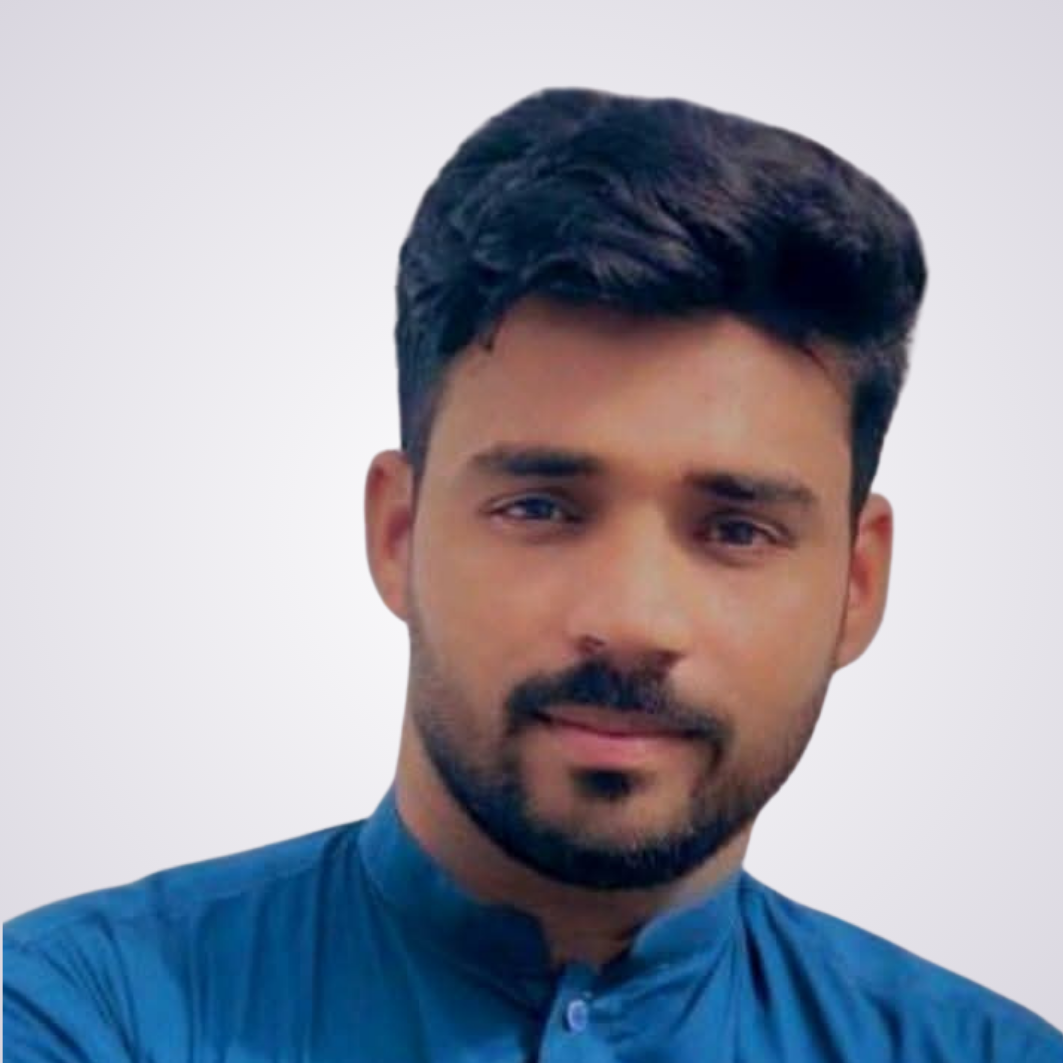
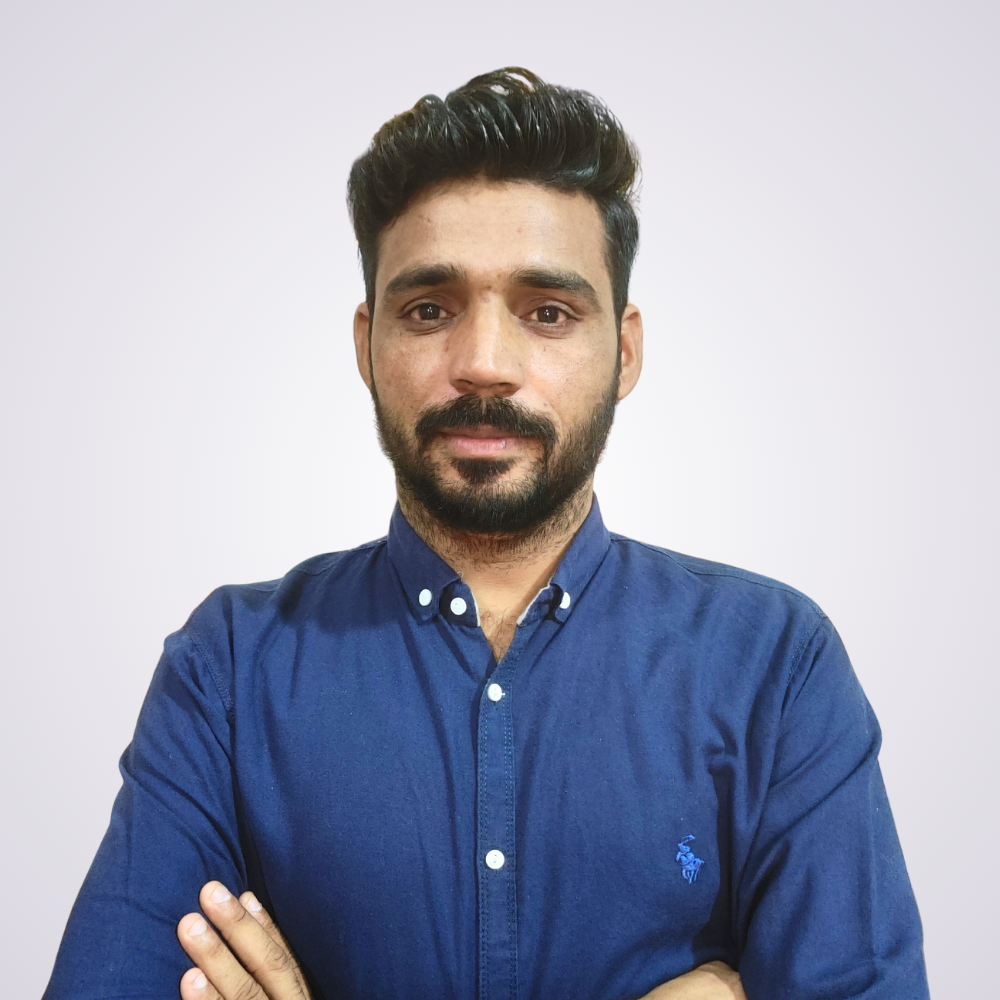
added redistered form code

diff --git a/Joinnow.html b/Joinnow.html
@@ -52,7 +52,7 @@
                       </div>
     </nav>
 
-  <div class="form-wrapper ">
+  <!-- <div class="form-wrapper ">
     <div class="form-container position-relative">
       <div class="badge-offer">30% OFF</div>
       <h2 class="text-center mb-4">Join Now - Admission Form</h2>
@@ -155,7 +155,149 @@
         <button type="submit" class="btn btn-color mt-4 w-100">Submit</button>
       </form>
     </div>
+  </div> -->
+
+
+  <div class="form-wrapper">
+    <div class="form-container position-relative">
+      <div class="badge-offer">30% OFF</div>
+      <h2 class="text-center mb-4">Join Now - Admission Form</h2>
+  
+      <form id="admissionForm" method="POST">
+        <div class="row">
+          <div class="col-md-6 mb-3">
+            <label for="name" class="form-label">Full Name</label>
+            <input type="text" class="form-control" id="name" name="Full Name" required>
+          </div>
+          <div class="col-md-6 mb-3">
+            <label for="fathername" class="form-label">Father's / Guardian's Name</label>
+            <input type="text" class="form-control" id="fathername" name="Father's Name" required>
+          </div>
+        </div>
+  
+        <div class="mb-3">
+          <label for="address" class="form-label">Address</label>
+          <textarea class="form-control" id="address" name="Address" rows="2" required></textarea>
+        </div>
+  
+        <div class="row">
+          <div class="col-md-6 mb-3">
+            <label for="email" class="form-label">Email (Optional)</label>
+            <input type="email" class="form-control" id="email" name="Email">
+          </div>
+          <div class="col-md-6 mb-3">
+            <label for="candidateContact" class="form-label">Candidate Contact Number</label>
+            <input type="text" class="form-control" id="candidateContact" name="Candidate Contact" required>
+          </div>
+          <div class="col-md-6 mb-3">
+            <label for="guardianContact" class="form-label">Guardian Contact Number</label>
+            <input type="text" class="form-control" id="guardianContact" name="Guardian Contact">
+          </div>
+          <div class="col-md-6 mb-3">
+            <label for="fatherOccupation" class="form-label">Father's Occupation</label>
+            <input type="text" class="form-control" id="fatherOccupation" name="Father's Occupation" placeholder="e.g., Teacher, Businessman, Engineer">
+          </div>
+        </div>
+  
+        <div>
+          <h5 class="form-label">Which Skills You Want to Enroll In?</h5>
+          <div class="row">
+            <div class="col-sm-6">
+              <div class="form-check">
+                <input class="form-check-input" type="checkbox" value="English Language" name="Skills[]">
+                <label class="form-check-label">English Language</label>
+              </div>
+              <div class="form-check">
+                <input class="form-check-input" type="checkbox" value="Freelancing" name="Skills[]">
+                <label class="form-check-label">Freelancing</label>
+              </div>
+              <div class="form-check">
+                <input class="form-check-input" type="checkbox" value="Web Design" name="Skills[]">
+                <label class="form-check-label">Web Design</label>
+              </div>
+              <div class="form-check">
+                <input class="form-check-input" type="checkbox" value="UI/UX" name="Skills[]">
+                <label class="form-check-label">UI/UX</label>
+              </div>
+              <div class="form-check">
+                <input class="form-check-input" type="checkbox" value="Web Development" name="Skills[]">
+                <label class="form-check-label">Web Development</label>
+              </div>
+              <div class="form-check">
+                <input class="form-check-input" type="checkbox" value="Full-Stack Web Development" name="Skills[]">
+                <label class="form-check-label">Full-Stack Web Development</label>
+              </div>
+            </div>
+            <div class="col-sm-6">
+              <div class="form-check">
+                <input class="form-check-input" type="checkbox" value="Front-end Basic" name="Skills[]">
+                <label class="form-check-label">Front-end (Basic)</label>
+              </div>
+              <div class="form-check">
+                <input class="form-check-input" type="checkbox" value="Front-end Advance" name="Skills[]">
+                <label class="form-check-label">Front-end (Advanced)</label>
+              </div>
+              <div class="form-check">
+                <input class="form-check-input" type="checkbox" value="Graphic Designing" name="Skills[]">
+                <label class="form-check-label">Graphic Designing</label>
+              </div>
+              <div class="form-check">
+                <input class="form-check-input" type="checkbox" value="WordPress" name="Skills[]">
+                <label class="form-check-label">WordPress</label>
+              </div>
+              <div class="form-check">
+                <input class="form-check-input" type="checkbox" value="C.I.T" name="Skills[]">
+                <label class="form-check-label">C.I.T</label>
+              </div>
+              <div class="form-check">
+                <input class="form-check-input" type="checkbox" value="Other" name="Skills[]">
+                <label class="form-check-label">Other</label>
+              </div>
+            </div>
+          </div>
+        </div>
+  
+        <button type="submit" class="btn btn-color mt-4 w-100">Submit</button>
+      </form>
+    </div>
   </div>
+  
+
+  <!-- messeg after submit--- -->
+
+  <div id="thankYouOverlay" style="
+  display:none;
+  position:fixed;
+  top:0;left:0;width:100%;height:100%;
+  background:rgba(0,0,0,0.6);
+  z-index:9999;
+  justify-content:center;
+  align-items:center;
+">
+  <div style="
+    background:white;
+    padding:30px;
+    border-radius:10px;
+    max-width:400px;
+    text-align:center;
+  ">
+    <h2>Thanks for submitting!</h2>
+    <p>We will respond soon.  
+    Please make sure the details you provided are correct.</p>
+    <button onclick="window.location.href='index.html'" style="
+      margin-top:15px;
+      padding:10px 20px;
+      background:var(--primary);
+      color:white;
+      border:none;
+      border-radius:5px;
+      cursor:pointer;
+    ">Go Back to Home</button>
+  </div>
+</div>
+
+
+<!-- messeg after submit--- -->
 
   <!-- Footer Start -->
   <div class="container-fluid bg-dark text-light footer pt-5  wow fadeIn" data-wow-delay="0.1s">

diff --git a/js/main.js b/js/main.js
@@ -128,3 +128,31 @@ window.addEventListener('load', updateHeading);
     document.head.appendChild(iconLink);
   });
 
+
+
+//   ----formspace
+
+  document.getElementById("admissionForm").addEventListener("submit", function(e) {
+    e.preventDefault(); // stop normal redirect
+
+    const form = e.target;
+    const formData = new FormData(form);
+
+    fetch("https://formspree.io/f/xblkqjwy", {
+        method: "POST",
+        body: formData,
+        headers: { 'Accept': 'application/json' }
+    })
+    .then(response => {
+        if (response.ok) {
+            document.getElementById("thankYouOverlay").style.display = "flex";
+            form.reset();
+        } else {
+            alert("There was a problem submitting your form. Please try again.");
+        }
+    })
+    .catch(error => {
+        console.error("Error:", error);
+        alert("Error submitting form. Please try again.");
+    });
+});

diff --git a/css/style.css b/css/style.css
@@ -505,3 +505,6 @@ a{
     box-shadow: #21212111 0px 0px 8px;
   
 }
+
+
+
